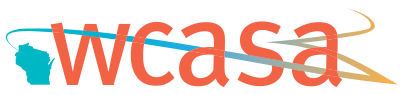
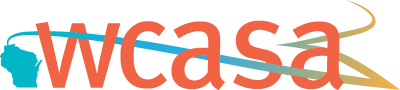
M

diff --git a/client/modules/header/header.import.less b/client/modules/header/header.import.less
@@ -143,6 +143,7 @@ header.mainHeader{
                     width: 400px;
                     text-indent: 0px;
                     margin-bottom: 42px;
+                    height: 90px;
                     a{
                         border: none;
                         display: block;
@@ -151,10 +152,11 @@ header.mainHeader{
                         &:active, &:hover, &:focus{
                             border: none;
                         }
-                        img{
+                        svg, svg image{
                             //width: 400px;
-                            max-width: 100%;
-                            max-height: 100%;
+                            width: 100%;
+                            height: 90px;
+                            .transition(all,375ms,ease-out,0ms);
                         }
                         &:after{
                             display: none;
@@ -231,14 +233,18 @@ header.mainHeader{
                 }
             }
             &.brand{
-                top: 43px;
+                top: 47px;
                 //.logoAnimatedFixed;
                 .translate(0px, -30px);
                 .logoAnimatedFixed;
                 width: 132px;
                 left: 12px;
+                height: 36px;
                 margin-left: 0px;
                 //top: 13px;
+                svg, svg image{
+                    height: 36px;
+                }
                 a{
                     //padding: 0px;
                     //margin: 0px;

diff --git a/client/theme/less/animations.import.less b/client/theme/less/animations.import.less
@@ -84,30 +84,35 @@
             left: 50%;
             margin-left: -200px;
             width: 400px;
+            height: 90px;
         }
         50%{
             .translate(0px, -180px);
             left: 50%;
             margin-left: -200px;
             width:400px;
+            height: 90px;
         }
         51%{
             .translate(0px, -180px);
             left: -200px;
             margin-left: 0px;
             width: 135px;
+            height: 36px;
         }
         52%{
             .translate(-200px, -30px);
             left: -200px;
             //margin-left: 0px;
             width: 135px;
+            height: 36px;
         }
         100% {
             .translate(0px, -30px);
             left: 12px;
             //margin-left: 0px;
             width: 135px;
+            height: 36px;
         }
     });
     @media @mobile{

diff --git a/client/modules/header/header.html b/client/modules/header/header.html
@@ -12,7 +12,13 @@
 <template name="mainNav">
     <nav class="mainNav">
         <ul class="container">
-            <li class="brand"><a href="#" class="brandLink"><img src="/lib/img/wisconsin-coalition-against-sexual-assault.png" alt="WCASA" /></a></li>
+            <li class="brand">
+                <a href="#" class="brandLink">
+                    <svg width="400" height="90">
+                        <image xlink:href="/lib/img/wisconsin-coalition-against-sexual-assault.svg" src="/lib/img/wisconsin-coalition-against-sexual-assault.png" width="400" height="90" />
+                    </svg>
+                </a>
+            </li>
             <!--{{#each sections}}
                 {{> menuItem}}
             {{/each}}-->
